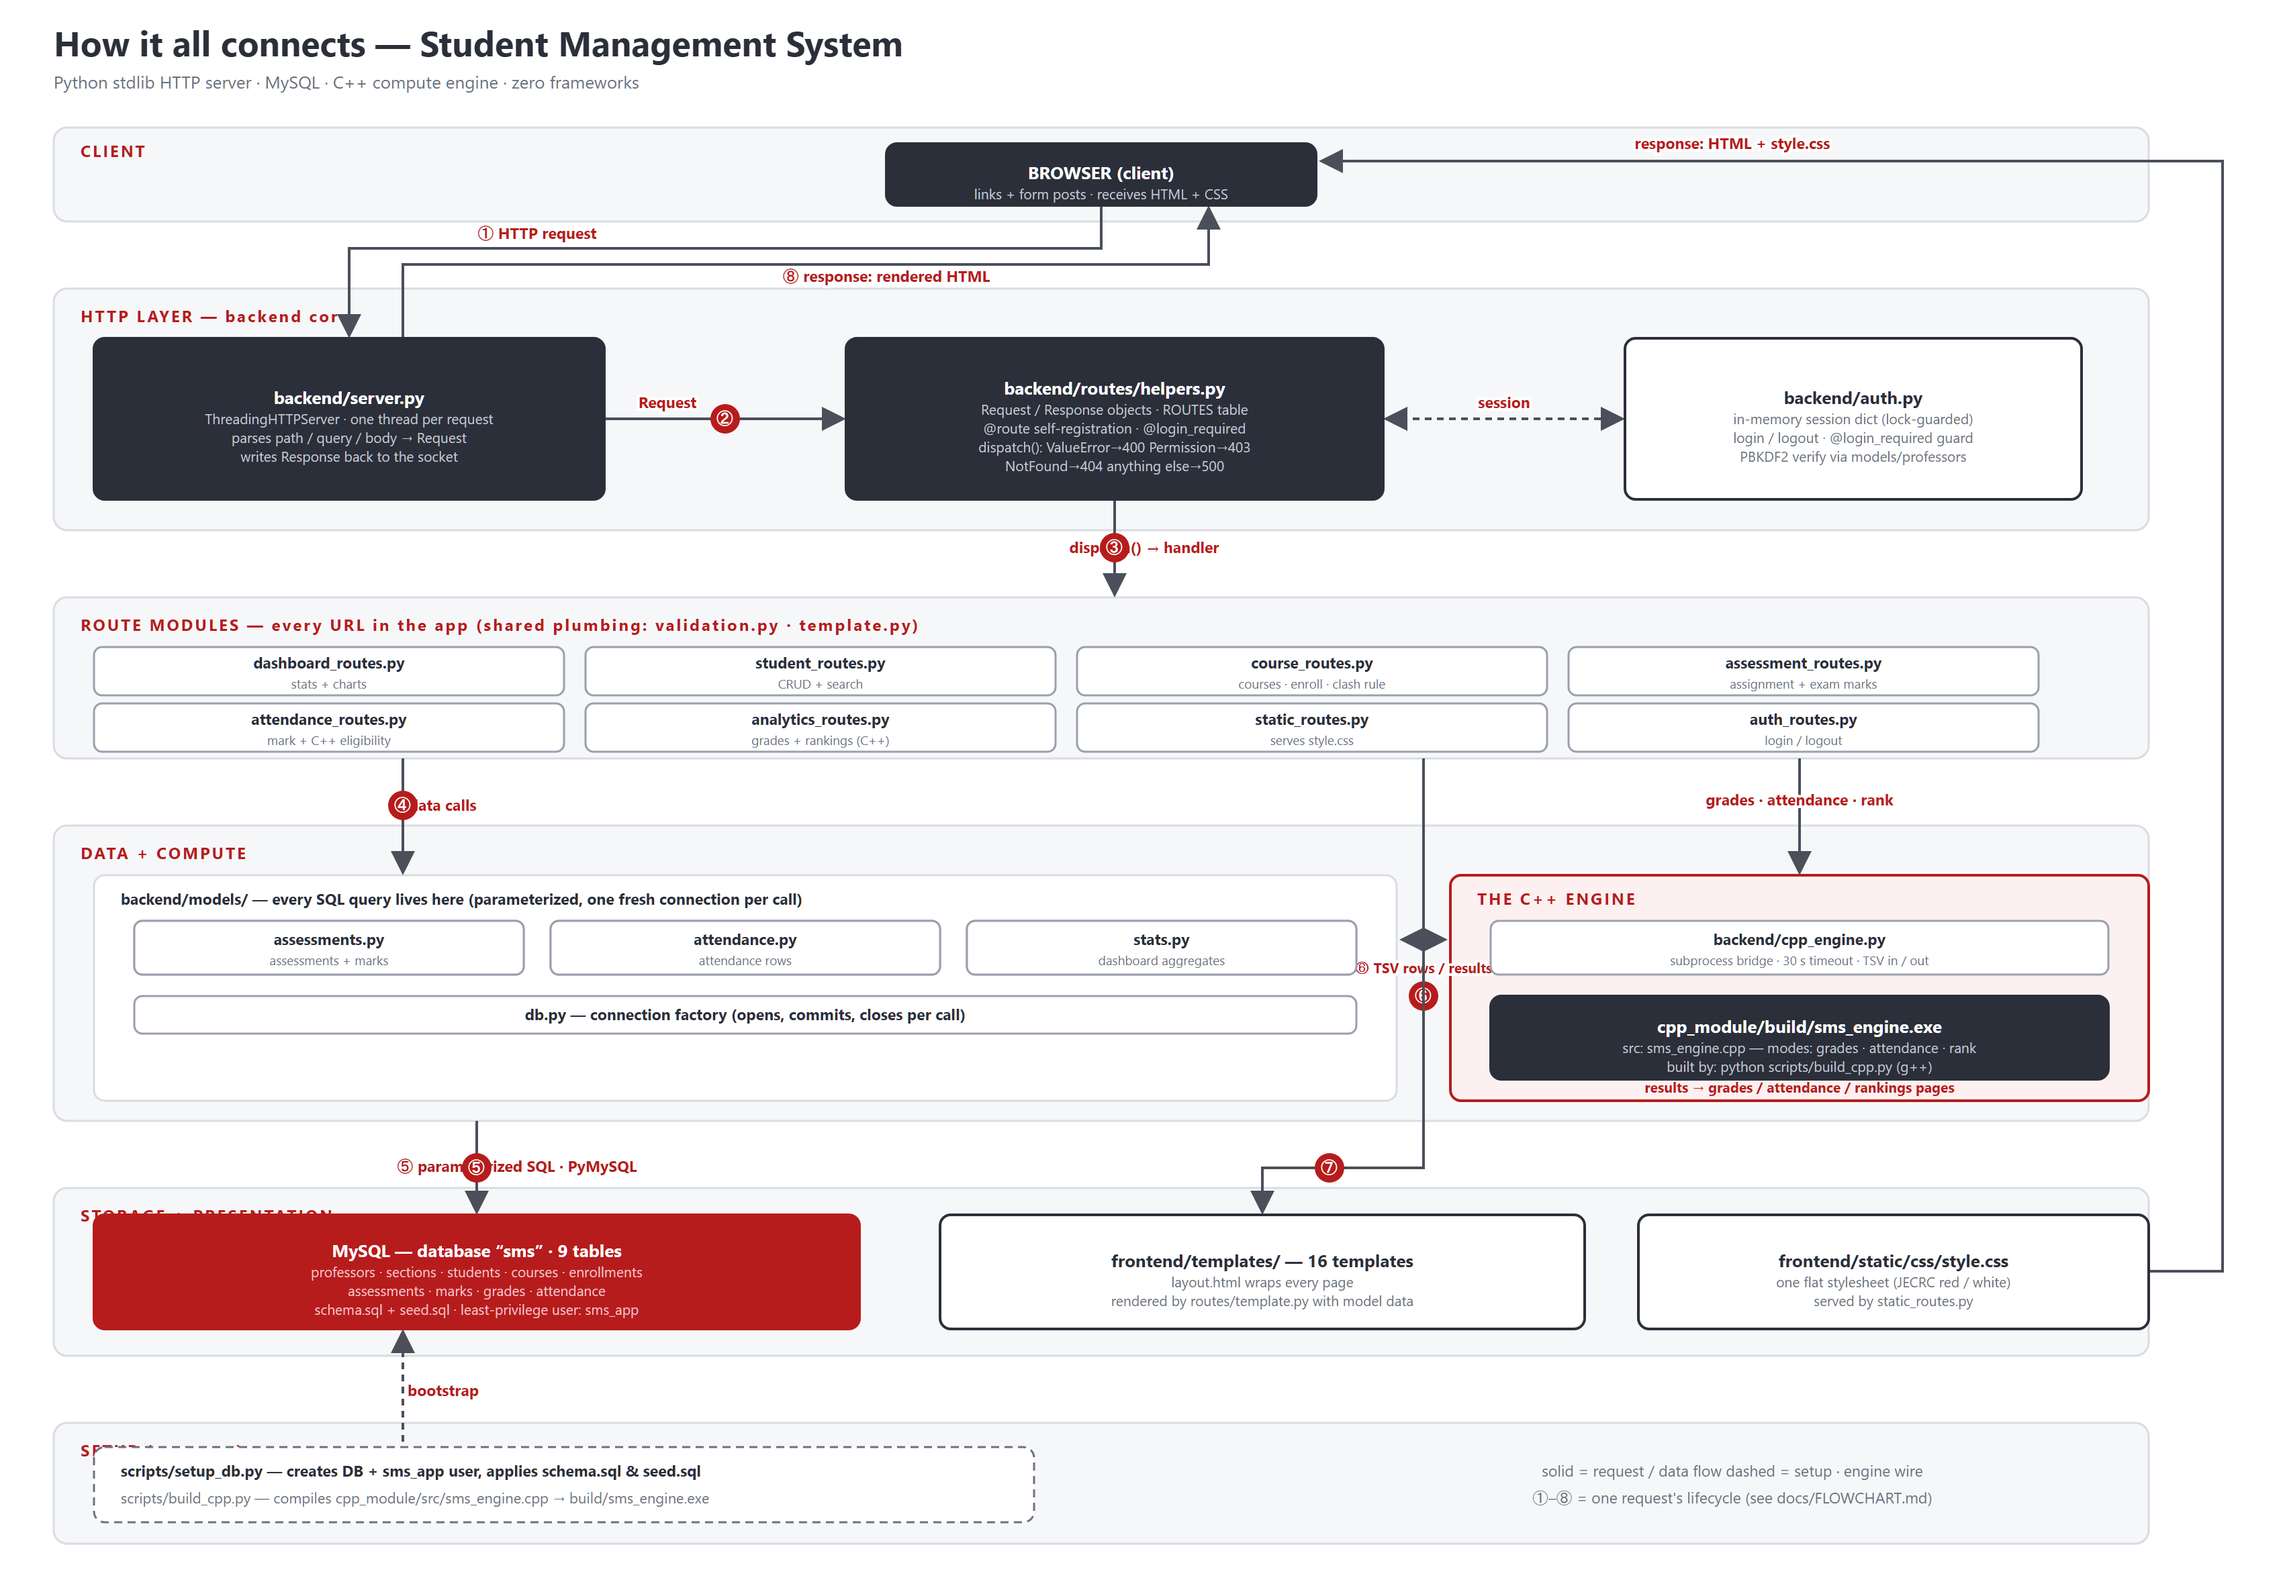
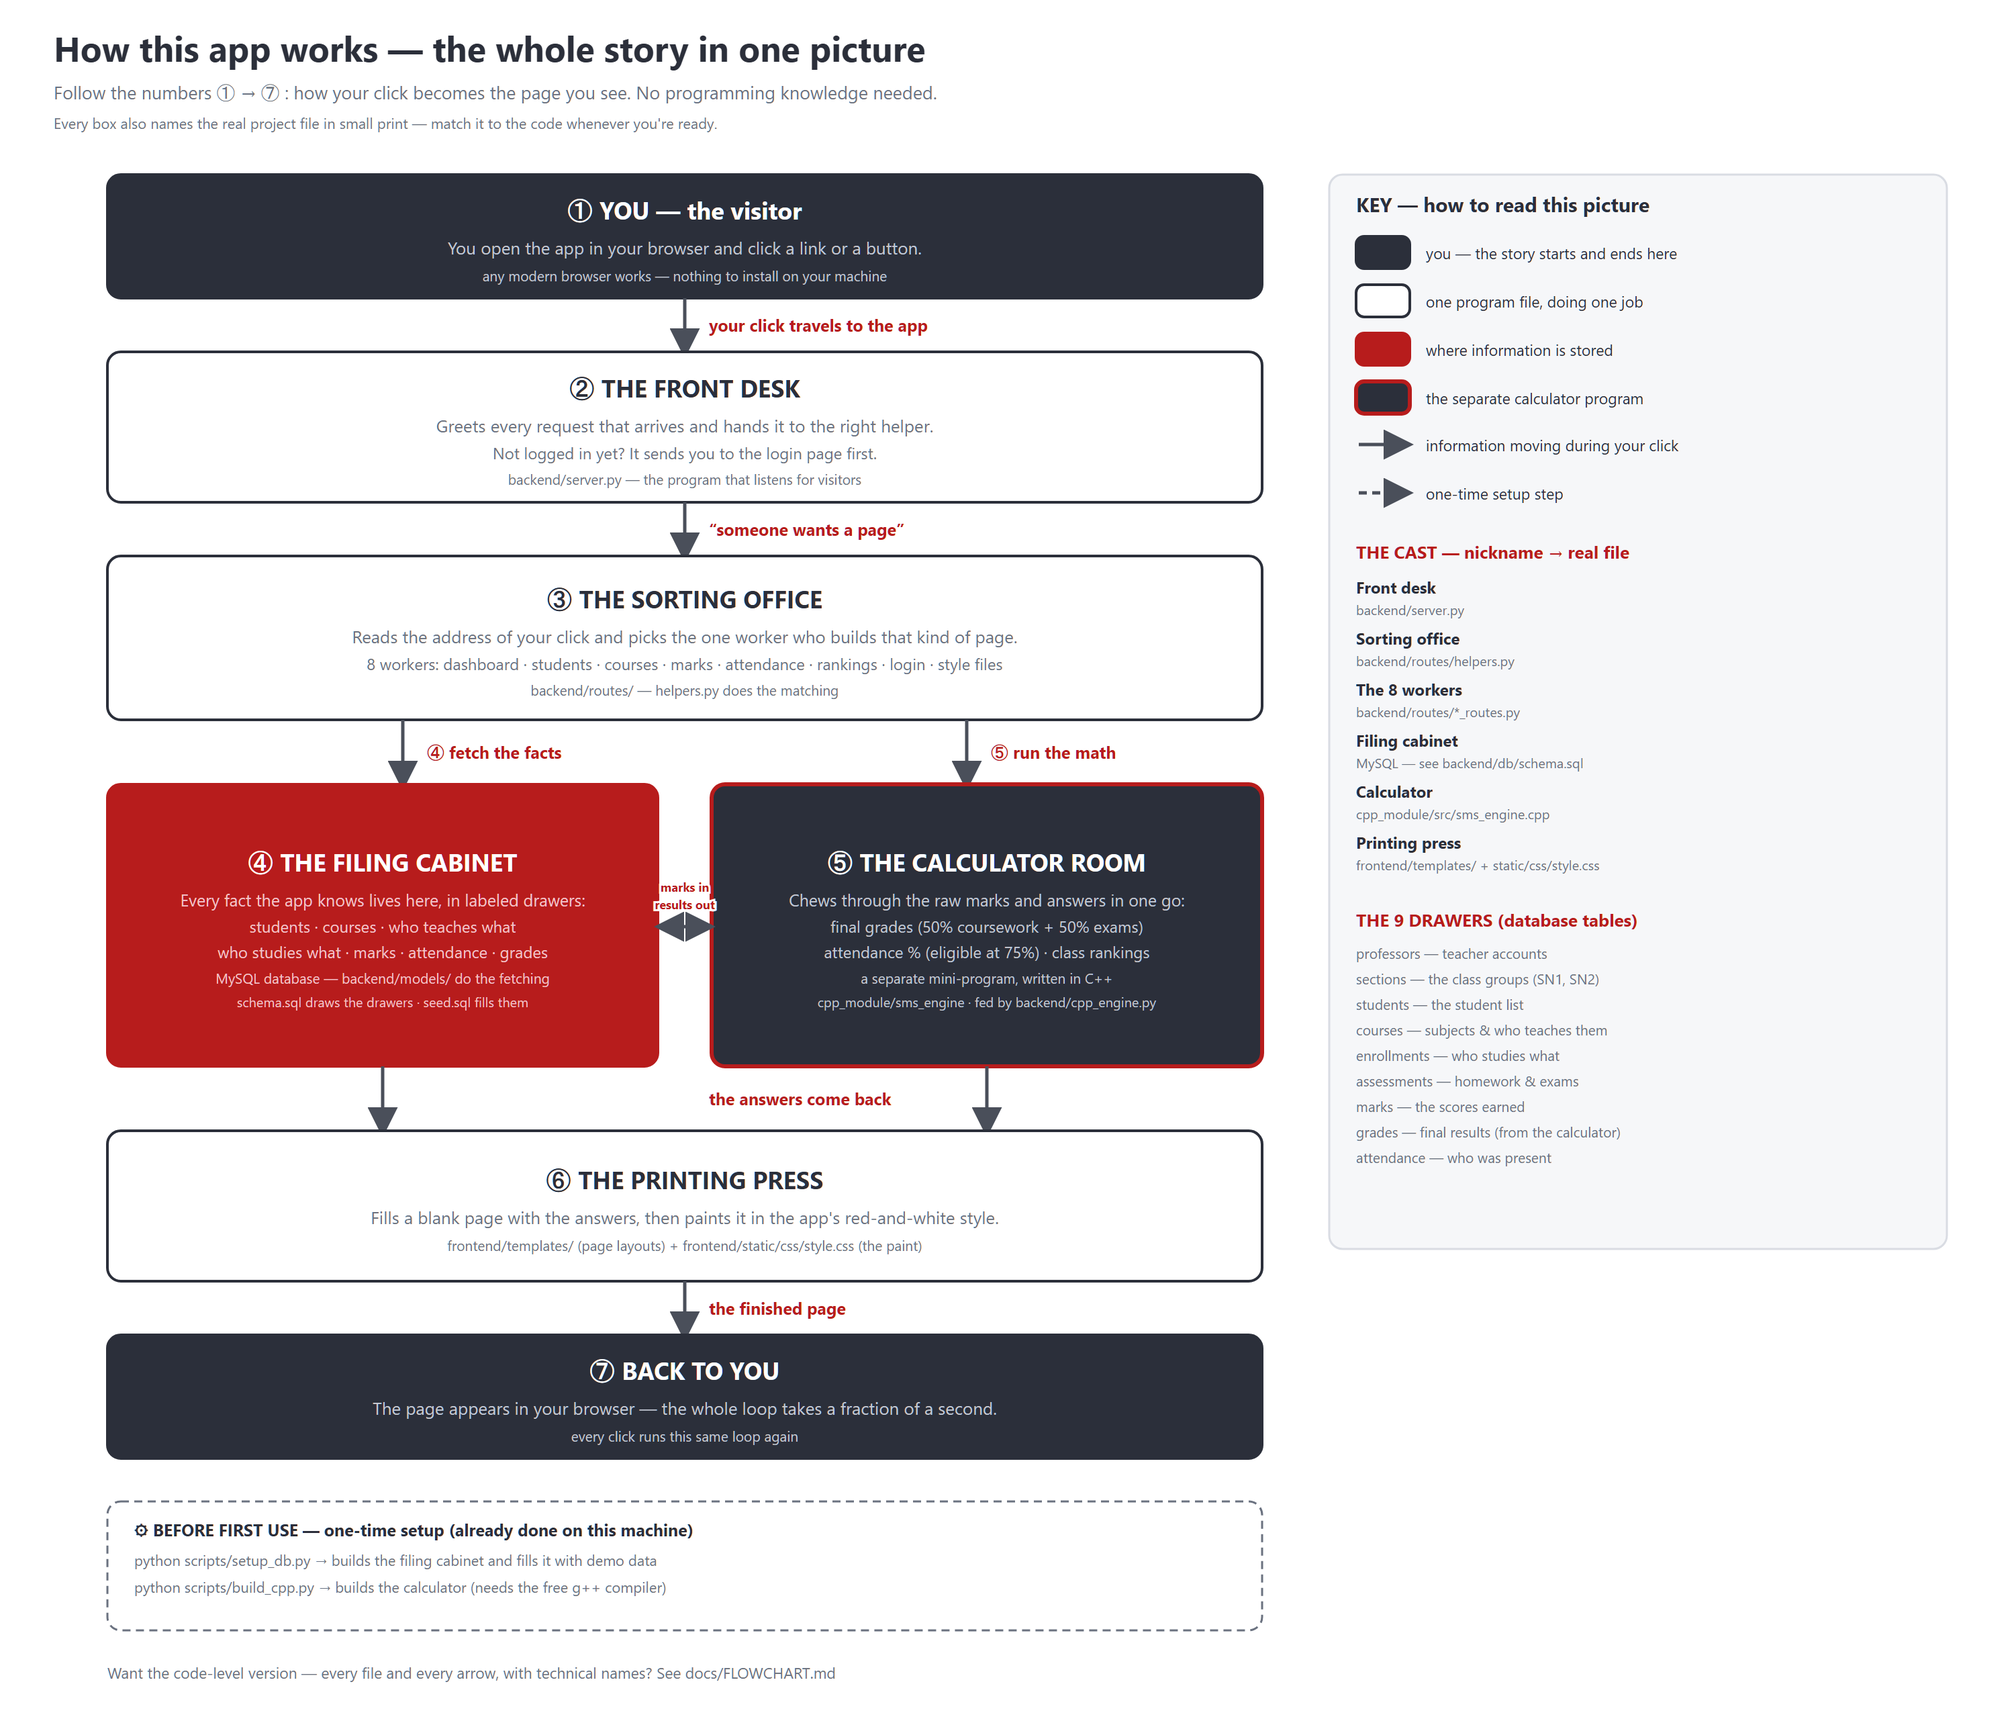
docs: rebuild flow diagram + flowchart for non-programmers (analogy story, plain-words key)
🤖 Generated with Codebuff

diff --git a/docs/FLOWCHART.md b/docs/FLOWCHART.md
@@ -1,16 +1,71 @@
 # Flowchart — how everything connects
 
-Two ways to read this project: **what a request's life looks like** (§1) and
-**which file is wired to which** (§2). The rendered diagram lives in
-[`flow-diagram.png`](flow-diagram.png) (editable source: [`flow-diagram.svg`](flow-diagram.svg),
-generated from the Mermaid blocks in this file).
+This page explains the whole project **without assuming you know
+programming**. Start with §1 — it is the same story as the picture
+([`flow-diagram.png`](flow-diagram.png), editable source
+[`flow-diagram.svg`](flow-diagram.svg)). §2 maps the nicknames to the real
+files, and §3 is the full technical wiring for when you're ready to read code.
 
 ---
 
-## 1. The life of one request (the 8-step loop)
+## 1. The story (no programming knowledge needed)
 
-Every page load follows the same loop — the only difference between
-"Dashboard" and "Enter marks" is which handler runs at step ③.
+When you click **any** button in this app, the same seven-step story plays out
+in a fraction of a second:
+
+```mermaid
+flowchart TD
+    A["① YOU<br/>you click a link in your browser"] --> B["② THE FRONT DESK<br/>greets every request and passes it on"]
+    B --> C["③ THE SORTING OFFICE<br/>reads the address of your click and<br/>picks the one worker who builds that page"]
+    C --> D["④ THE FILING CABINET<br/>fetch the facts — students, marks, attendance"]
+    C --> E["⑤ THE CALCULATOR ROOM<br/>run the math — grades, %, rankings"]
+    D --> F["⑥ THE PRINTING PRESS<br/>fill a page with the answers and paint it"]
+    E --> F
+    F --> G["⑦ BACK TO YOU<br/>the finished page appears in your browser"]
+```
+
+| Step | What happens | Who does it |
+|---|---|---|
+| ① You | You open the app and click a link or button. Any modern browser works — nothing to install on your machine. | — |
+| ② The front desk | Greets every request that arrives and hands it to the right helper. If you're not logged in yet, it sends you to the login page first. | `backend/server.py` |
+| ③ The sorting office | Reads the *address* of your click (the part after `/` in the URL) and picks the one worker who builds that kind of page. There are 8 workers: dashboard, students, courses, marks, attendance, rankings, login, and style files. | `backend/routes/helpers.py` |
+| ④ The filing cabinet | Every fact the app knows lives here in labeled drawers: students, courses, who teaches what, who studies what, marks, attendance, grades. The workers only *ask* for facts — they never rummage themselves. | MySQL database, via `backend/models/` |
+| ⑤ The calculator room | Some pages need math, not just facts: final grades (50% coursework + 50% exams), attendance % (eligible at 75%), class rankings. A separate mini-program written in C++ does this — marks go in, answers come out. | `cpp_module/sms_engine`, fed by `backend/cpp_engine.py` |
+| ⑥ The printing press | Fills a blank page with the answers, then paints it in the app's red-and-white style. | `frontend/templates/` + `frontend/static/css/style.css` |
+| ⑦ Back to you | The finished page appears in your browser. Every click runs this same loop again. | — |
+
+**One-time setup (before first use):** `python scripts/setup_db.py` builds and
+fills the filing cabinet; `python scripts/build_cpp.py` builds the calculator.
+Both are already done on this machine.
+
+---
+
+## 2. The cast — nickname → real file
+
+| Nickname | Real file(s) | Its one job |
+|---|---|---|
+| Front desk | `backend/server.py` | Listens for visitors, one thread per request |
+| Sorting office | `backend/routes/helpers.py` | Matches the URL to the right worker, attaches your login |
+| The 8 workers | `backend/routes/*_routes.py` | Each builds one kind of page |
+| Filing cabinet drawers | the 9 tables in `backend/db/schema.sql` | professors, sections, students, courses, enrollments, assessments, marks, grades, attendance |
+| Cabinet clerks | `backend/models/*.py` | The only code allowed to fetch/store facts |
+| Calculator | `cpp_module/src/sms_engine.cpp` | Grades, attendance %, rankings — pure math, no storage |
+| Calculator operator | `backend/cpp_engine.py` | Hands data to the calculator, collects answers |
+| Printing press | `backend/routes/template.py` + `frontend/templates/` | Fills page layouts with data |
+| The paint | `frontend/static/css/style.css` | The red-and-white look |
+| Setup tools | `scripts/setup_db.py`, `scripts/build_cpp.py` | Build the cabinet; build the calculator |
+
+**The 9 drawers explained:** a *professor* logs in and teaches *courses*; each
+course belongs to a *section* (a class group like SN1) full of *students*;
+*enrollments* record who studies what; *assessments* are the homework and
+exams; *marks* are the scores earned; the calculator turns marks into *grades*;
+*attendance* remembers who was present.
+
+---
+
+## 3. The technical view (for when you're ready to read code)
+
+### 3a. The life of one request
 
 ```mermaid
 flowchart TD
@@ -25,25 +80,10 @@ flowchart TD
     H --> I["⑧ Response (HTML + style.css)<br/>written back to the socket"]
 ```
 
-| Step | File(s) | What happens |
-|---|---|---|
-| ① | the browser | Click a link / submit a form → HTTP request to `127.0.0.1:8000` |
-| ② | `backend/server.py` | `ThreadingHTTPServer` accepts; `_build_request()` parses path, query, form body, cookies into a `Request` |
-| ③ | `backend/routes/helpers.py` | `dispatch(request)` scans the `ROUTES` table (regex patterns) and calls the matching handler with `request.user` attached |
-| ④ | `backend/routes/*_routes.py` | The handler validates input (`validation.py`), checks ownership, and asks the models for data |
-| ⑤ | `backend/models/*.py` | Every query in the app lives here — parameterized, one fresh connection per call (`db.py`), commits on writes |
-| ⑥ | `backend/cpp_engine.py` → `cpp_module/build/sms_engine.exe` | Only for computation: grades (50/50 pass ≥ 40), attendance % (eligible ≥ 75), section ranking |
-| ⑦ | `backend/routes/template.py` | Renders the page's template inside `layout.html` with the model data |
-| ⑧ | `backend/server.py` | The `Response` (status, headers, HTML) goes back to the socket; the browser loads `style.css` from `static_routes.py` |
-
 **Error mapping (in `dispatch()`, one place):** `ValueError → 400`,
 `PermissionError → 403`, `NotFound → 404`, anything else → logged + friendly 500.
 
----
-
-## 2. The file-connection map
-
-Which file imports what — the actual wiring of the codebase.
+### 3b. Which file imports what
 
 ```mermaid
 flowchart LR
@@ -117,32 +157,30 @@ flowchart LR
 
 ### Connection rules (what makes the graph this shape)
 
-1. **`server.py` touches nothing below the HTTP layer.** It imports `backend.routes`
-   (which registers all URLs via the `@route` decorator) and calls `dispatch()`.
-   It never sees MySQL or templates.
+1. **`server.py` touches nothing below the HTTP layer.** It imports
+   `backend.routes` (which registers all URLs via the `@route` decorator) and
+   calls `dispatch()`. It never sees MySQL or templates.
 2. **Routes never write SQL.** Every route module talks only to
-   `backend/models/*` — so a query change can't break a URL and vice versa.
-3. **Only `models/db.py` knows the connection parameters** (via `backend/config.py`,
-   the file you edit after installing MySQL). No other module opens a socket.
-4. **Only two route modules know the C++ engine exists:** `attendance_routes`
+   `backend/models/*` — a query change can't break a URL and vice versa.
+3. **Only `models/db.py` knows the connection parameters** (via
+   `backend/config.py`). No other module opens a database connection.
+4. **Only two workers know the calculator exists:** `attendance_routes`
    (eligibility %) and `analytics_routes` (grades + rankings). `cpp_engine.py`
-   hides the subprocess: TSV on stdin, results on stdout, 30-second timeout,
-   `EngineError` → friendly page if the binary was never built.
+   hides the details: tab-separated text in, results out, 30-second timeout,
+   a friendly error if the calculator was never built.
 5. **Ownership checks live in the models, not the UI.** `courses.get_owned()`
-   raises `PermissionError` (→ 403), so scoping can't be bypassed by hand-crafting URLs.
-6. **Setup scripts sit outside the request loop:** `scripts/setup_db.py` creates the
-   database + least-privilege `sms_app` user and applies `schema.sql` → `seed.sql`;
-   `scripts/build_cpp.py` compiles the engine. Both are run-once tools.
+   raises `PermissionError` (→ 403), so scoping can't be bypassed by
+   hand-crafting URLs.
+6. **Setup scripts sit outside the request loop:** `scripts/setup_db.py`
+   creates the database + least-privilege `sms_app` user and applies
+   `schema.sql` → `seed.sql`; `scripts/build_cpp.py` compiles the engine.
 
----
-
-## 3. One feature end-to-end: "view final grades"
-
-The fastest way to see the whole graph move at once:
+### 3c. One feature end-to-end: "view final grades"
 
 1. `analytics_routes.gradebook(request)` — route matches `/courses/<id>/grades`
-2. `courses.get_owned(course_id, request.user)` — raises `PermissionError` unless you teach it (403)
-3. `assessments.for_course(...)` — pulls assessments + marks from MySQL (`models/assessments.py`)
+2. `courses.get_owned(course_id, request.user)` — raises `PermissionError`
+   unless you teach this course (403)
+3. `assessments.for_course(...)` — pulls assessments + marks from MySQL
 4. `cpp_engine.run("grades", rows)` — TSV in → `sms_engine.exe` → per-student
    `final % = 50% assignments + 50% exams`, Pass/Fail at ≥ 40%
 5. `template.render("grades.html", ...)` — table + summary chips

diff --git a/README.md b/README.md
@@ -2,7 +2,7 @@
 
 A Student Management System for professors: courses, enrollments, students, assignments, exams, marks, grades, attendance, and rankings — built end-to-end on a deliberately framework-free stack: **HTML/CSS frontend + plain-Python backend (`http.server`) + C++ compute engine (subprocess) + MySQL**. No JavaScript, no frameworks, no templating libraries — every layer is hand-written and explainable.
 
-> Full documentation lives in [`docs/`](docs/): the project [overview](docs/OVERVIEW.md) (purpose, architecture, key decisions, known limitations), a visual [flow diagram](docs/flow-diagram.png) + [flowchart](docs/FLOWCHART.md) of how every file connects, MySQL setup, UI guide, and a guided [code tour](docs/CODE_TOUR.md).
+> Full documentation lives in [`docs/`](docs/): the project [overview](docs/OVERVIEW.md) (purpose, architecture, key decisions, known limitations), a beginner-friendly [flow diagram](docs/flow-diagram.png) + [flowchart](docs/FLOWCHART.md) (how a click becomes a page — no programming knowledge needed), MySQL setup, UI guide, and a guided [code tour](docs/CODE_TOUR.md).
 
 ## Why this project
 
